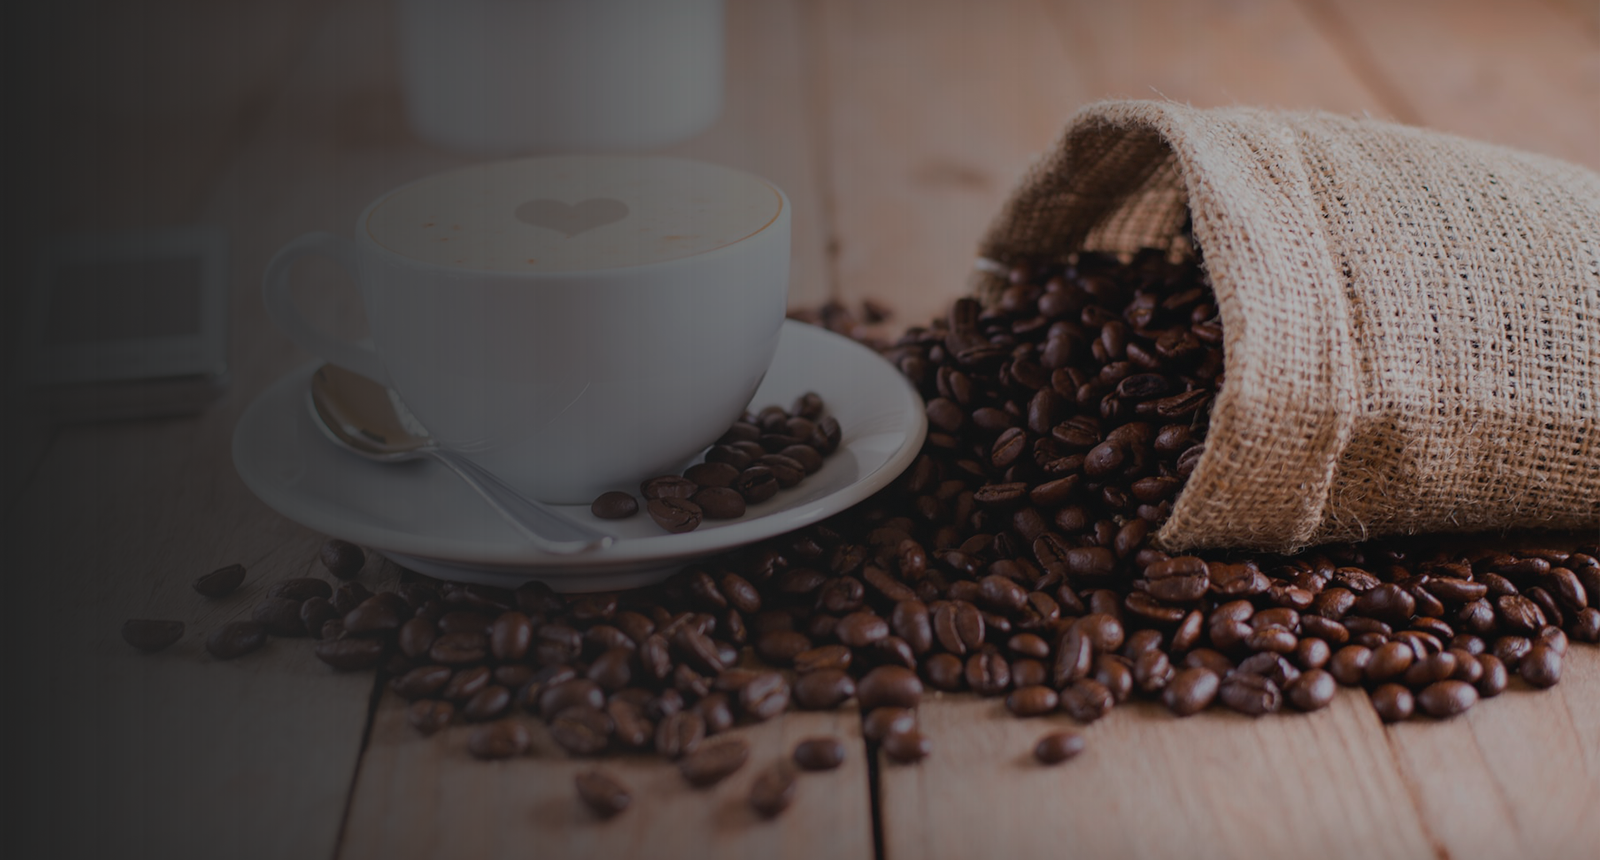
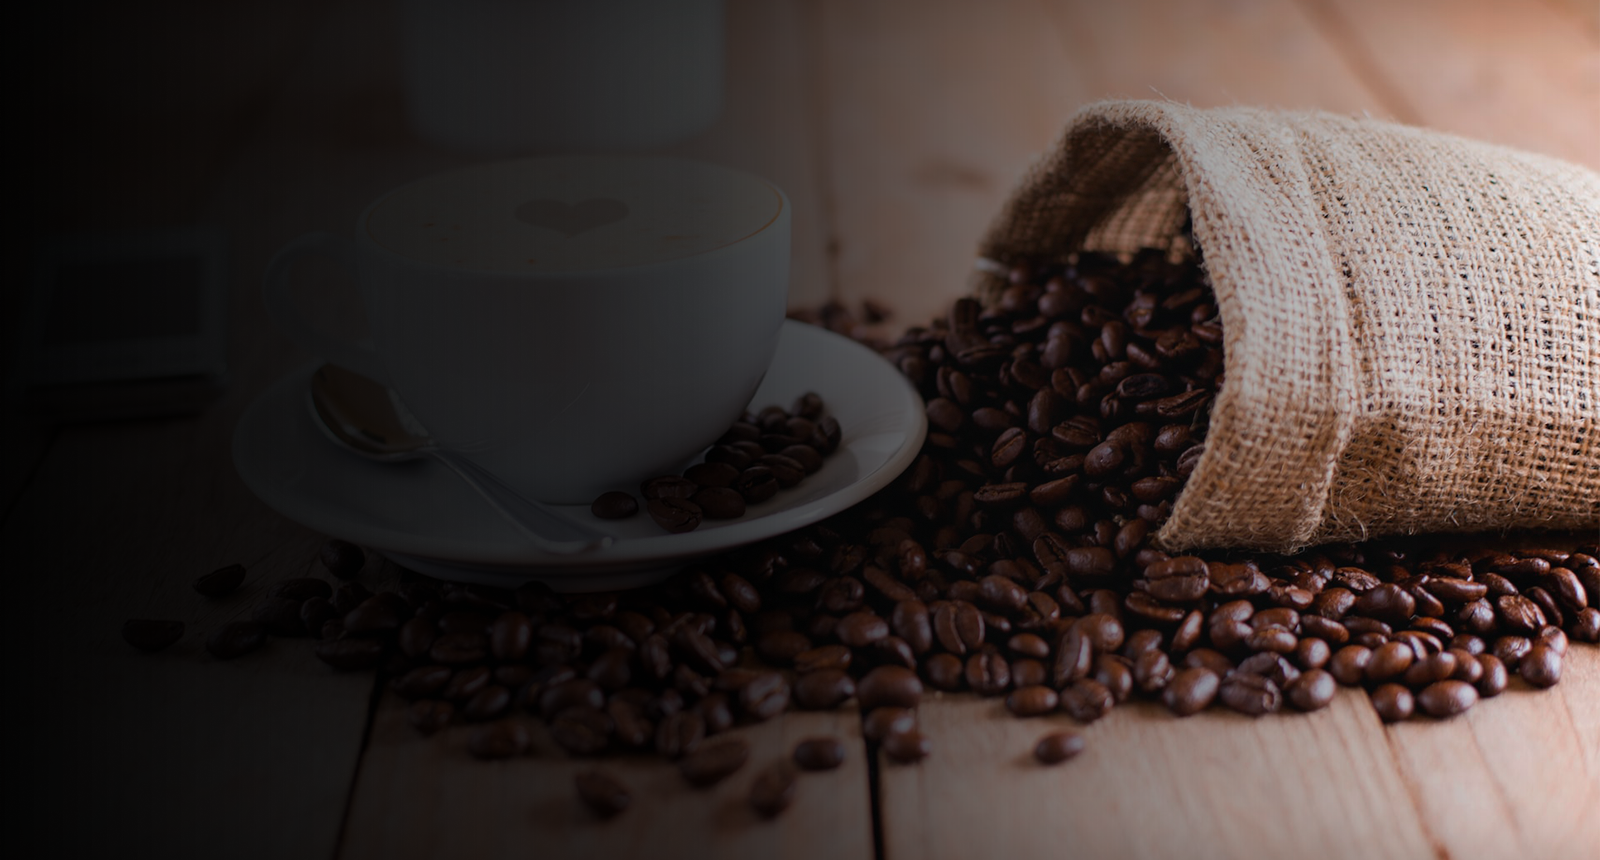
secao sobre a coffee shops

diff --git a/index.html b/index.html
@@ -4,7 +4,7 @@
     <meta charset="UTF-8" />
     <meta http-equiv="X-UA-Compatible" content="IE=edge" />
     <meta name="viewport" content="width=device-width, initial-scale=1.0" />
-    <link rel="stylesheet" href="/css/reset.css">
+    <link rel="stylesheet" href="/css/reset.css" />
     <link rel="stylesheet" href="/css/style.css" />
     <script src="./js/app.js"></script>
     <title>Document</title>
@@ -62,4 +62,22 @@
       </article>
     </header>
   </body>
+  <main>
+    <section class="sobre-nos">
+      <article class="sobre-nos__descricao">
+        <h2>Conheça a coffee shops</h2>
+        <p>
+          Coffee Shops é uma cafeteria que oferece um café de qualidade que
+          ajuda a aumentar sua produtividade e ajuda a melhorar seu humor. Tomar
+          uma xícara de café é bom, mas tomar uma xícara de café de verdade é
+          melhor ainda. Não há dúvidas que nosso café é muito mais do que outros
+          que você já provou.
+        </p>
+        <button>Saiba mais</button>
+      </article>
+      <picture class="sobre-nos__xicara">
+        <img src="./img/icones/images/imagem-secao1.png" alt="Xicara de café" />
+      </picture>
+    </section>
+  </main>
 </html>

diff --git a/css/style.css b/css/style.css
@@ -80,17 +80,6 @@ button {
   margin: 2em 0;
 }
 
-.cabecalho-gradiente {
-  min-width: 100%;
-  position: absolute;
-  z-index: -1;
-  background: linear-gradient(
-    89.87deg,
-    hsla(0, 0%, 10%, 0.8) 65.42%,
-    hsla(0, 0%, 0%, 0) 101.09%
-  );
-}
-
 .cabecalho-lista {
   padding: 0 var(--padding5735);
 }
@@ -285,4 +274,52 @@ button {
 .cabecalho-lista__input::placeholder {
   font-weight: var(--font-w400);
   color: var(--gray-100);
+}
+
+/* Seção 1 */
+
+.sobre-nos {
+  display: flex;
+  justify-content: space-between;
+  align-items: center;
+  padding: 0 var(--padding5735);
+  flex-wrap: wrap;
+  position: relative;
+}
+
+.sobre-nos__descricao {
+  width: 40%;
+  min-width: 30%;
+  color: var(--primaria-700);
+  display: grid;
+  gap: 1rem;
+  padding: 1em 0;
+}
+
+.sobre-nos__descricao,
+.sobre-nos__xicara {
+  z-index: 1;
+}
+
+.sobre-nos__descricao button {
+  width: max-content;
+}
+
+.sobre-nos__descricao h2 {
+  font-weight: var(--font-w800);
+  font-size: 3rem;
+}
+
+.sobre-nos__descricao p {
+  font-weight: var(--font-w300);
+}
+
+.sobre-nos__xicara {
+  width: 500px;
+  min-width: 40%;
+}
+
+.sobre-nos__xicara img {
+  width: 100%;
+  height: 100%;
 }
